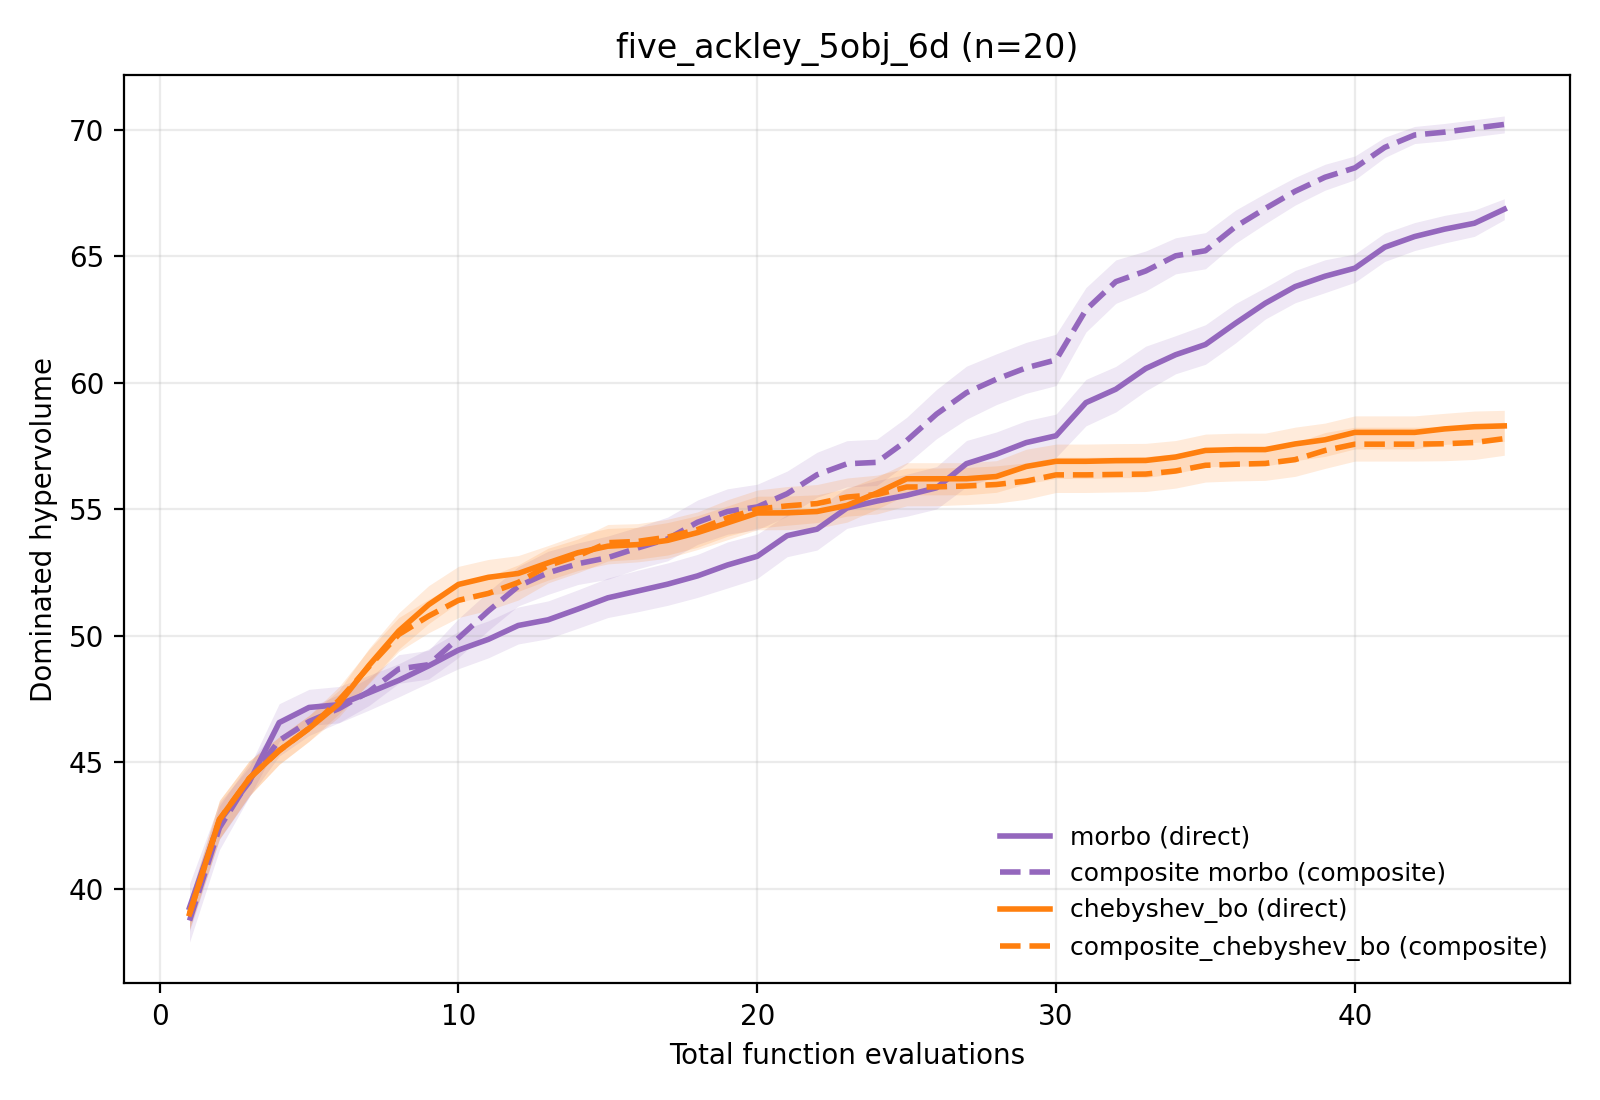
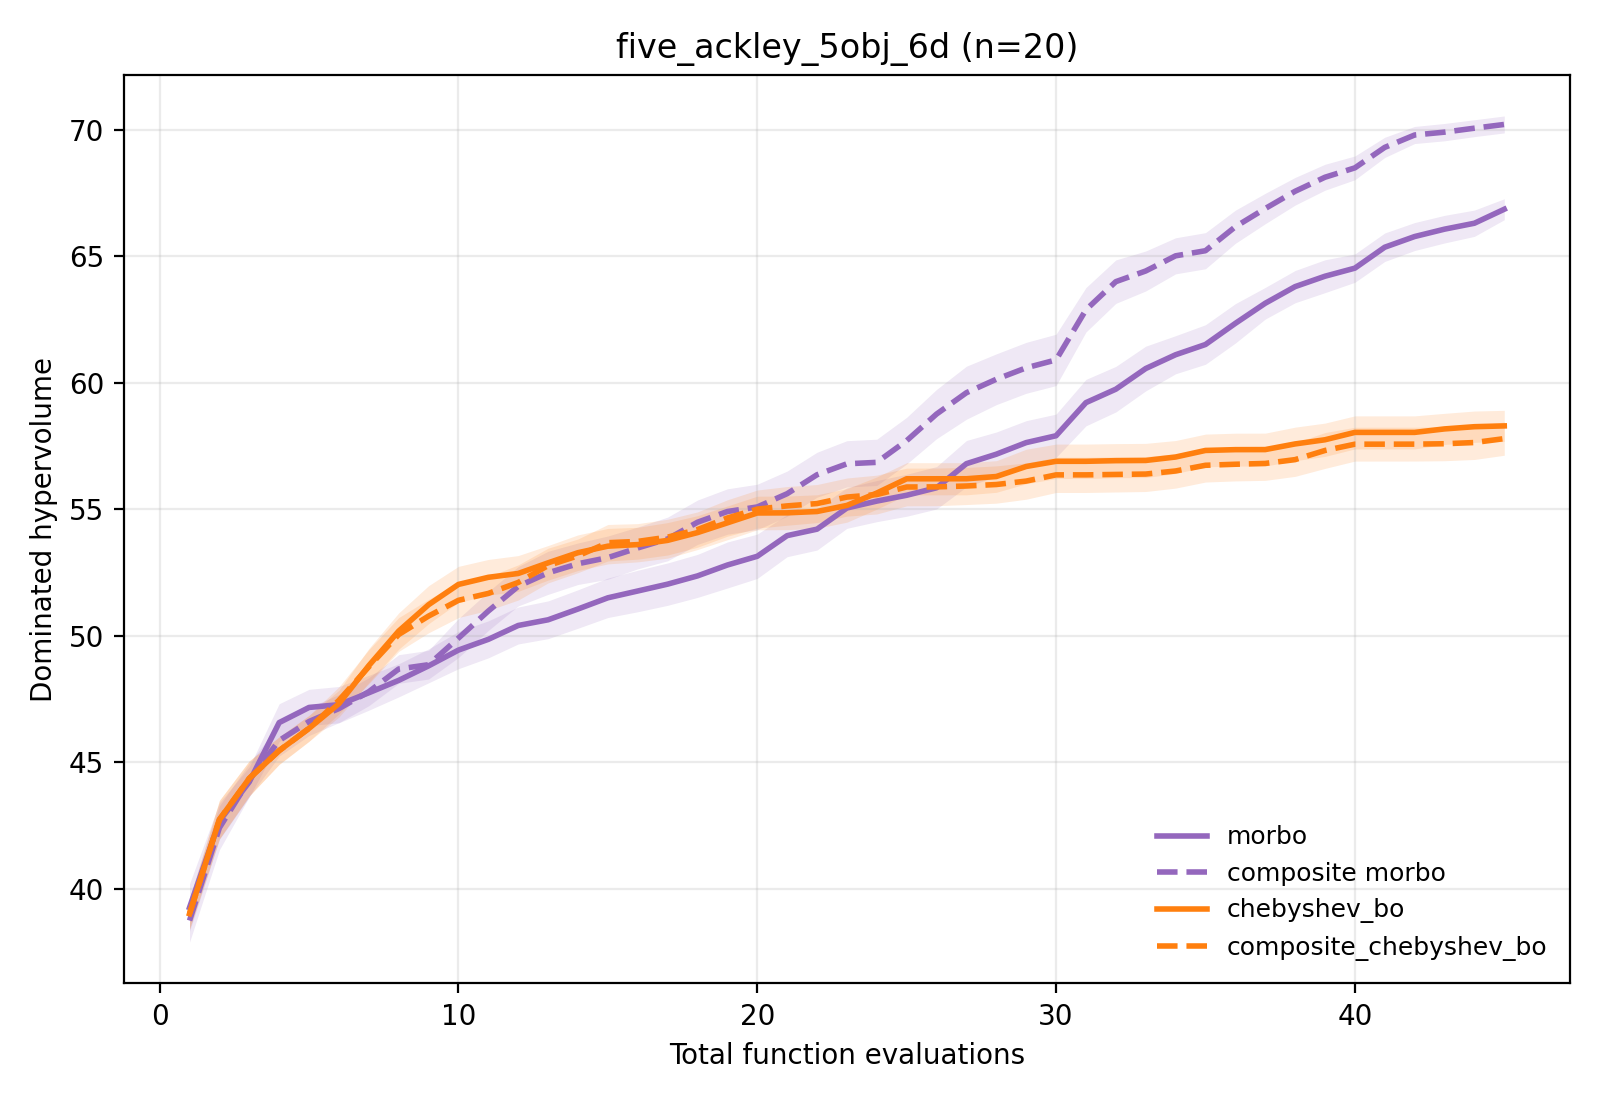
Drop redundant (direct)/(composite) legend suffixes in plot_ablation.py
Composite methods already say "composite" in their display name, so
the suffix was duplicating info already shown in the label text.

Changed region(s): [[0.625, 0.7418, 0.9688, 0.8655]]

diff --git a/composite_ablation/plot_ablation.py b/composite_ablation/plot_ablation.py
@@ -96,7 +96,7 @@ def plot_benchmark_dir(results_dir: Path, output: Path, title: str = None) -> No
 
         mean, sem = _mean_and_sem(direct_traces)
         evals = np.arange(1, len(mean) + 1)
-        ax.plot(evals, mean, linestyle="-", color=color, linewidth=2.0, label=f"{direct_name} (direct)")
+        ax.plot(evals, mean, linestyle="-", color=color, linewidth=2.0, label=direct_name)
         ax.fill_between(evals, mean - sem, mean + sem, color=color, alpha=0.15, linewidth=0)
         plotted_any = True
         seed_counts.append(len(direct_traces))
@@ -107,7 +107,7 @@ def plot_benchmark_dir(results_dir: Path, output: Path, title: str = None) -> No
         evals_c = np.arange(1, len(mean_c) + 1)
         ax.plot(
             evals_c, mean_c, linestyle="--", color=color, linewidth=2.0,
-            label=f"{composite_name} (composite)",
+            label=composite_name,
         )
         ax.fill_between(evals_c, mean_c - sem_c, mean_c + sem_c, color=color, alpha=0.15, linewidth=0)
         seed_counts.append(len(composite_traces))
